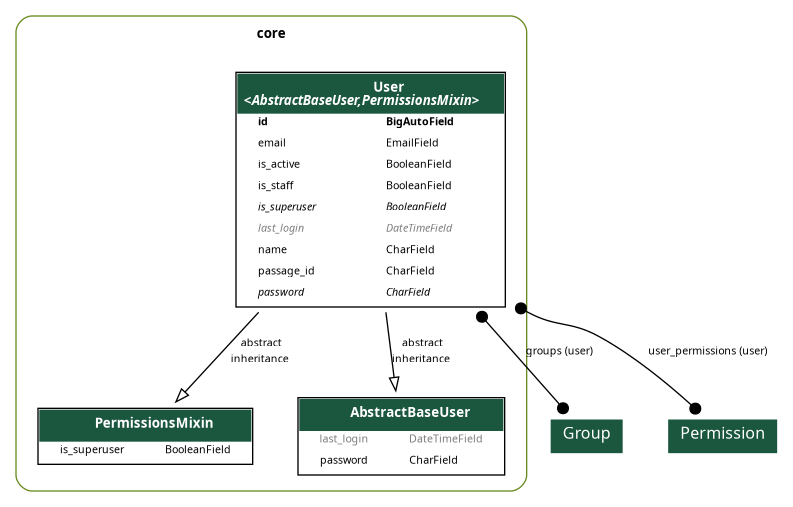
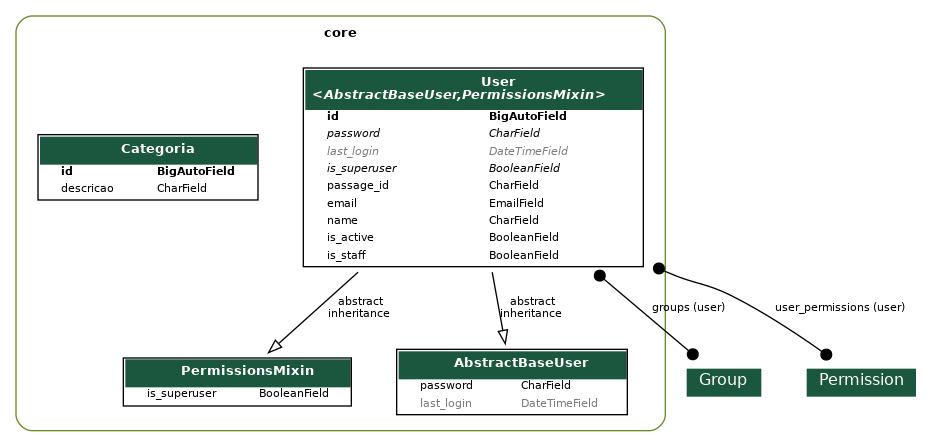
Criação da model de Categoria

diff --git a/core/migrations/0002_categoria.py b/core/migrations/0002_categoria.py
@@ -1,0 +1,20 @@
+# Generated by Django 5.1 on 2024-08-20 17:57
+
+from django.db import migrations, models
+
+
+class Migration(migrations.Migration):
+
+    dependencies = [
+        ("core", "0001_initial"),
+    ]
+
+    operations = [
+        migrations.CreateModel(
+            name="Categoria",
+            fields=[
+                ("id", models.BigAutoField(auto_created=True, primary_key=True, serialize=False, verbose_name="ID")),
+                ("descricao", models.CharField(max_length=100)),
+            ],
+        ),
+    ]

diff --git a/core/models/categoria.py b/core/models/categoria.py
@@ -1,0 +1,8 @@
+from django.db import models
+
+
+class Categoria(models.Model):
+    descricao = models.CharField(max_length=100)
+
+    def __str__(self):
+        return self.descricao

diff --git a/core/admin.py b/core/admin.py
@@ -52,3 +52,4 @@ class UserAdmin(BaseUserAdmin):
 
 
 admin.site.register(models.User, UserAdmin)
+admin.site.register(models.Categoria)

diff --git a/core/models/__init__.py b/core/models/__init__.py
@@ -1,1 +1,2 @@
 from .user import User
+from .categoria import Categoria
